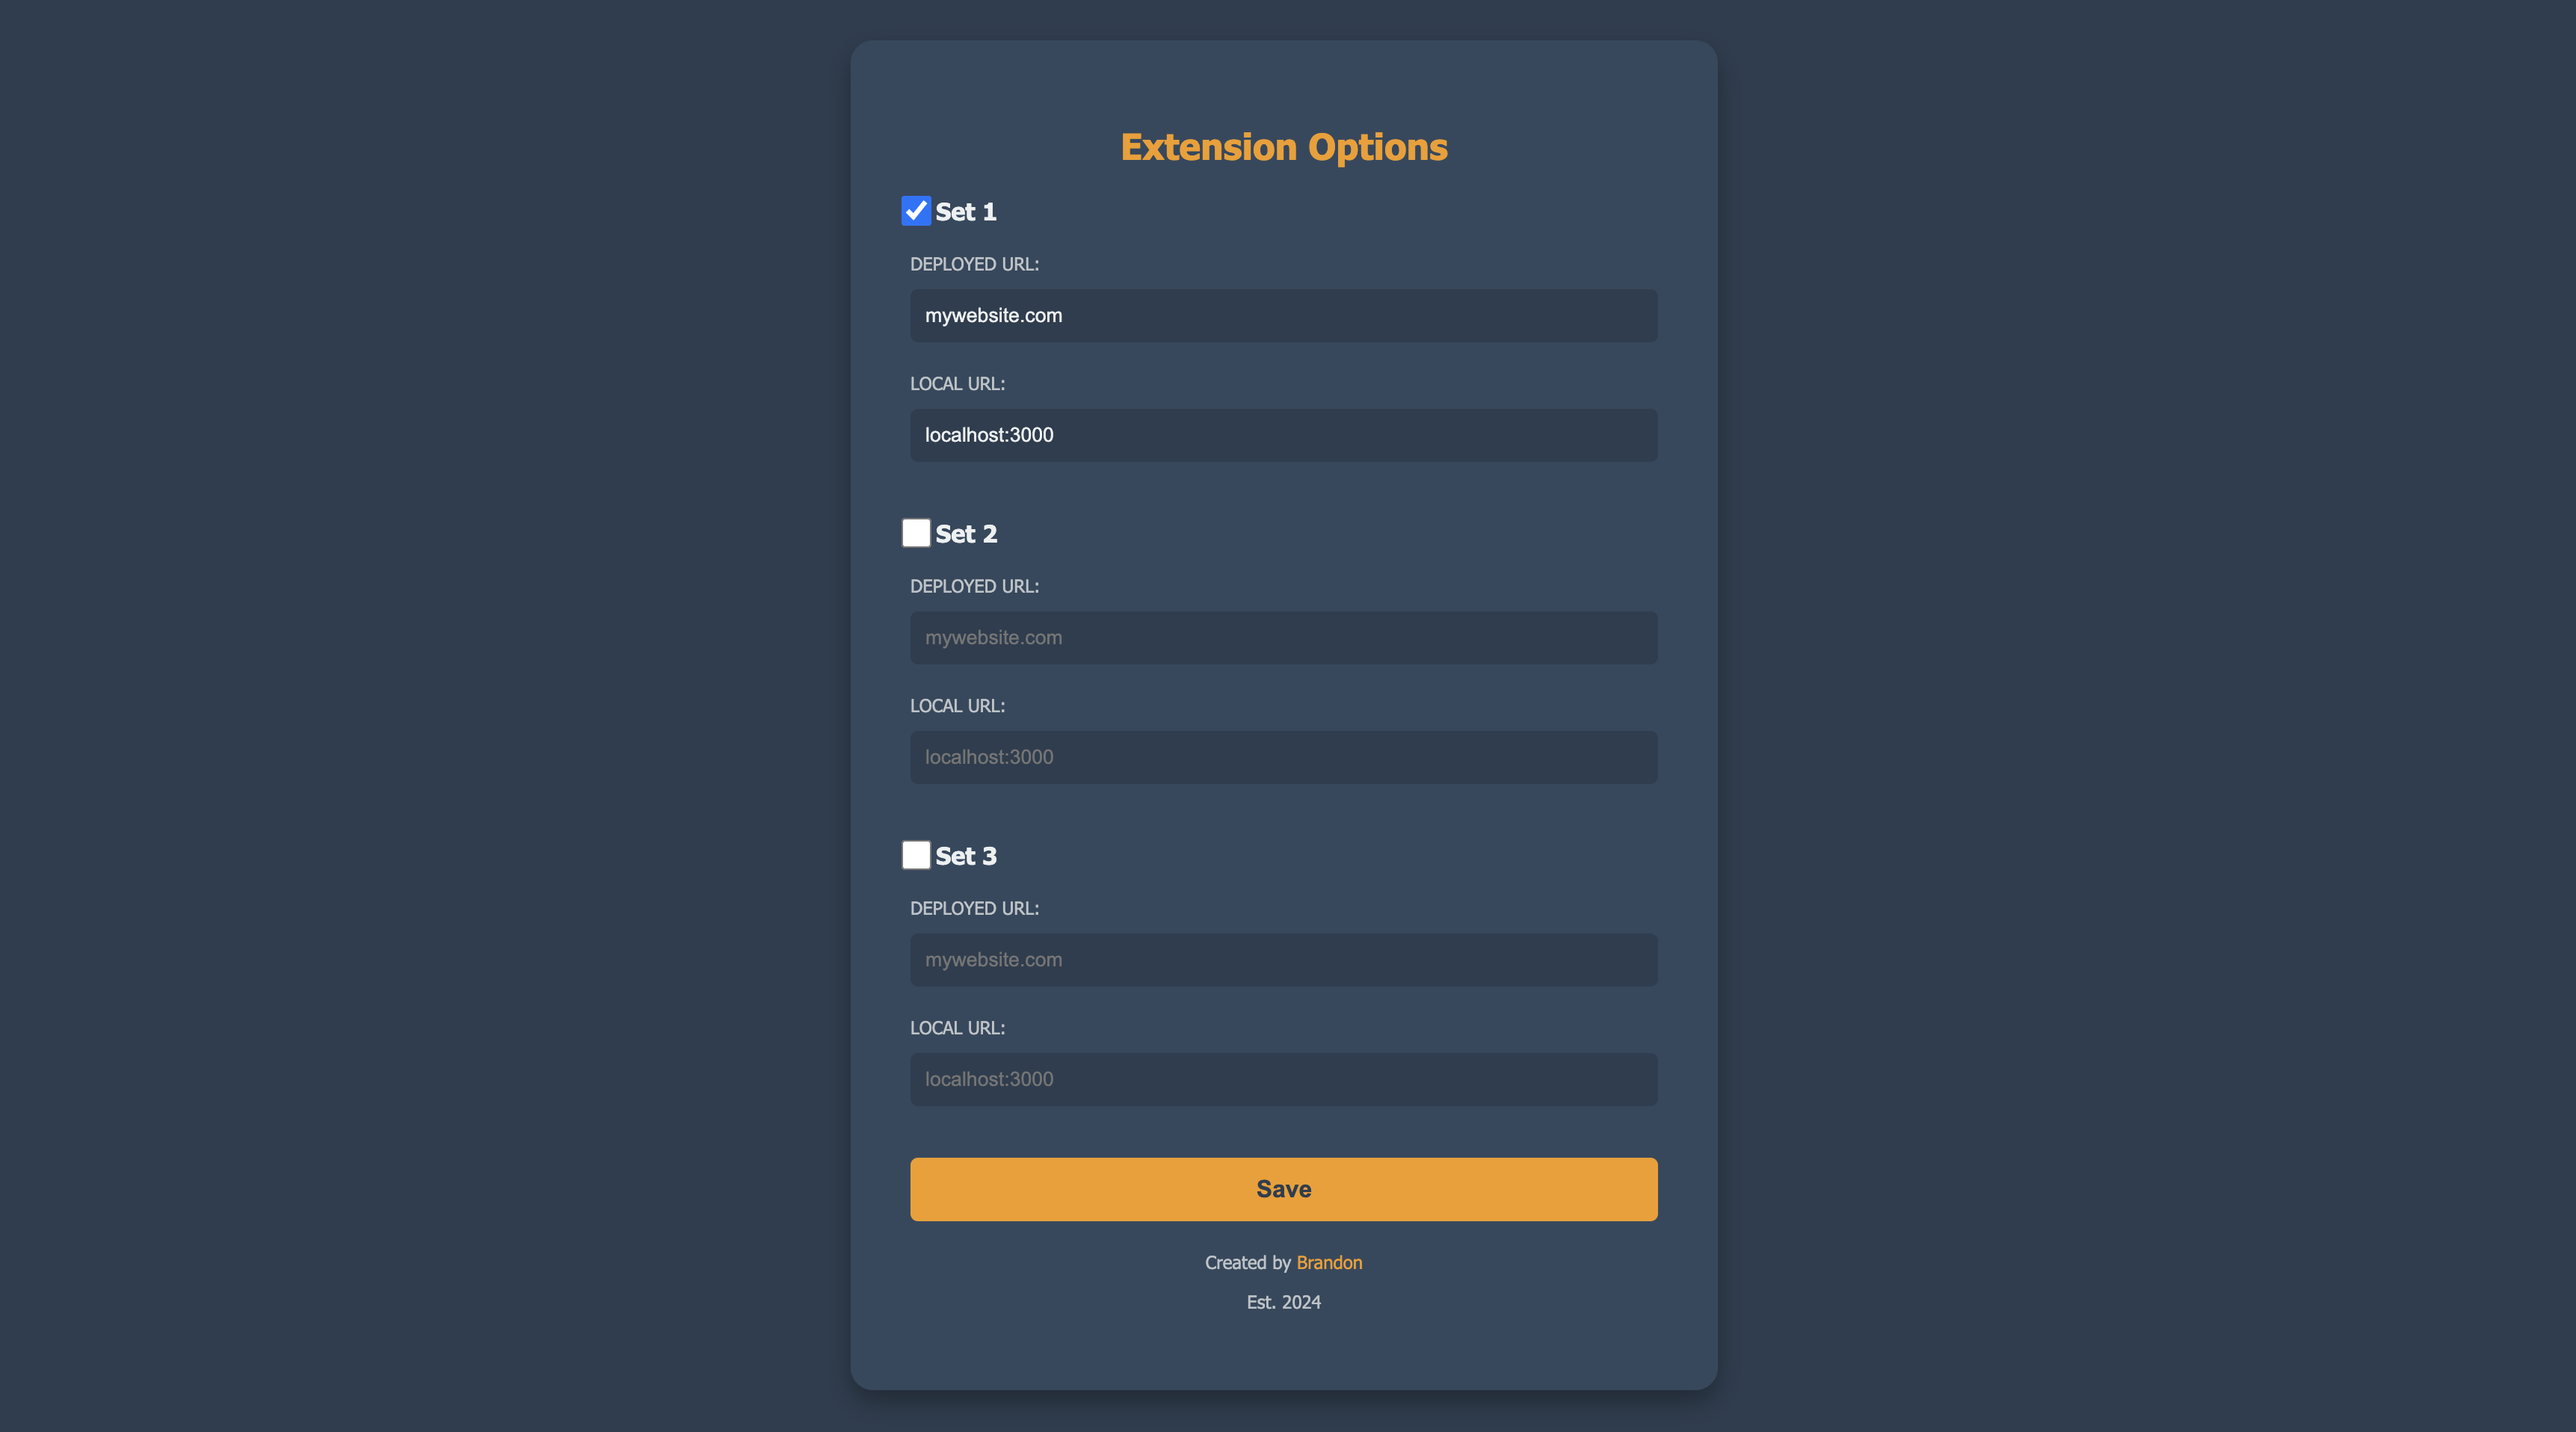
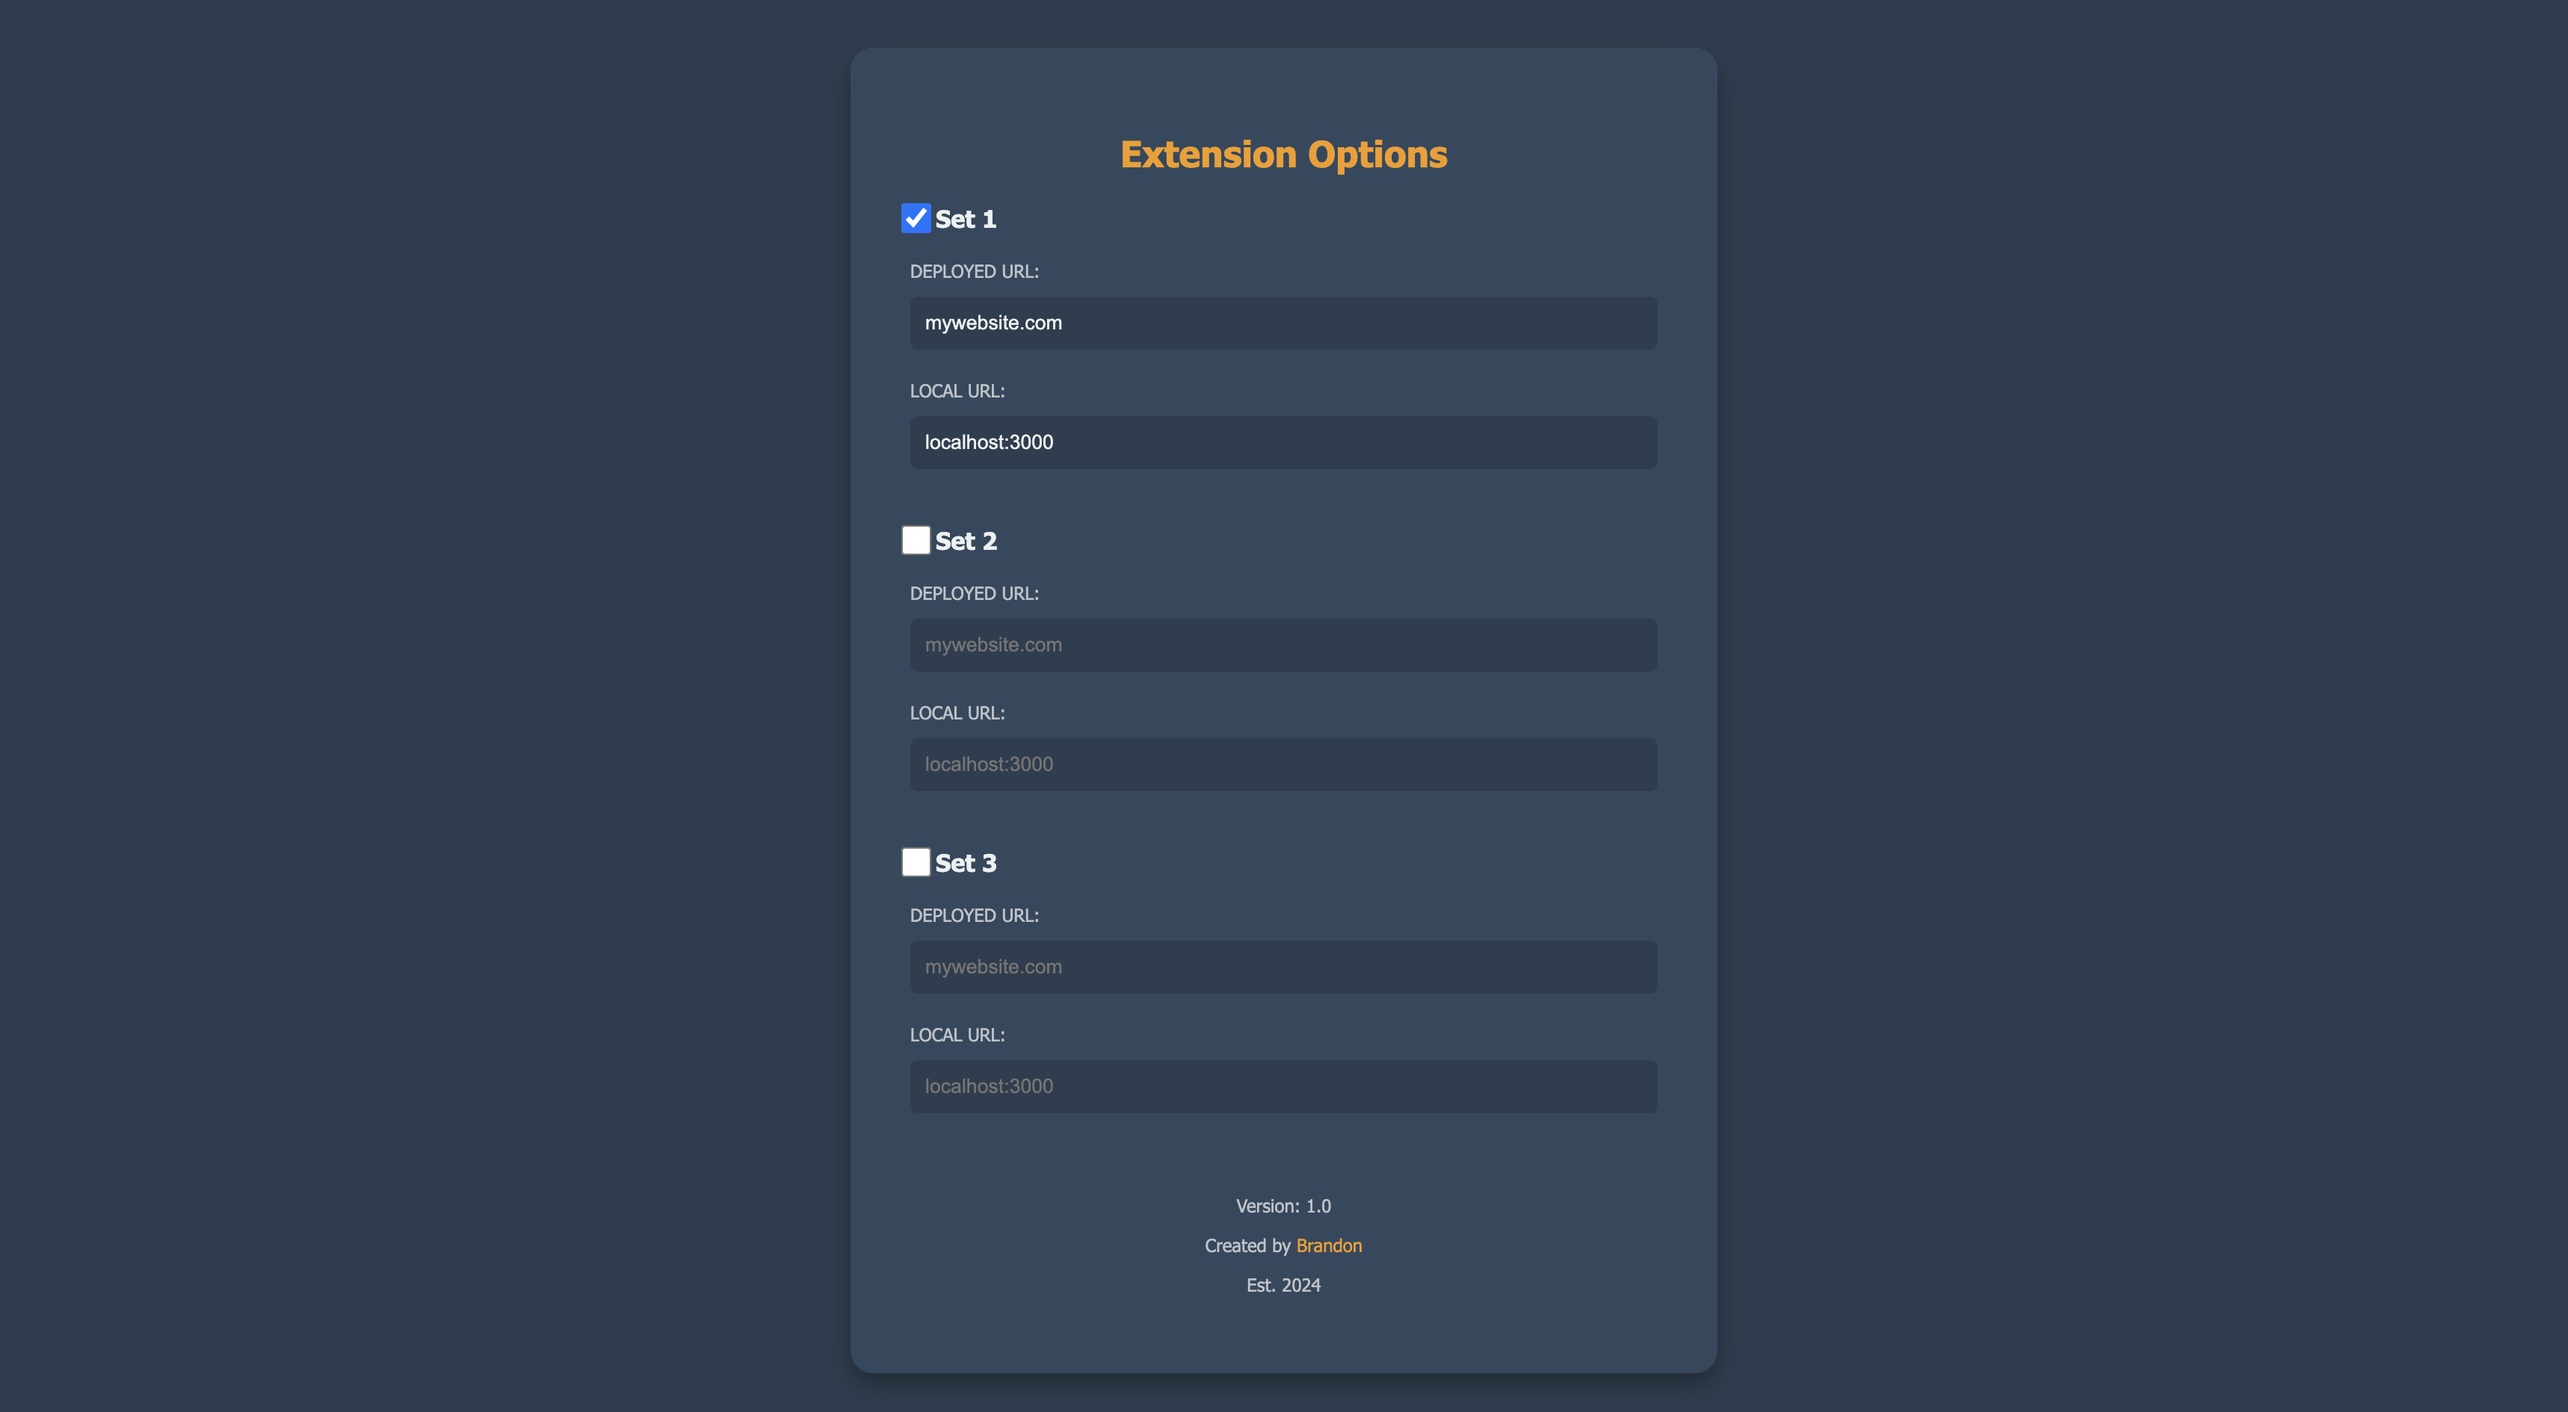
adds auto-save and adjusts error messagaing away from using alerts

diff --git a/src/scripts/convertUrl.js b/src/scripts/convertUrl.js
@@ -1,17 +1,39 @@
+const root = document.getElementById('root');
+
+function renderMessage(message) {
+    root.innerHTML = `
+        <div class="container">
+            <div class="logo"></div>
+        </div>
+        <h2>url-swip-swap</h2>
+        <p>Swaps between two URLs</p>
+        <p><b>${message}</b></p>
+        <h3>Instructions</h3>
+        <ul>
+            <li>Right-click this Extension.</li>
+            <li>Click "Options".</li>
+            <li>Set the two URLs you want to swap between.</li>
+        </ul>
+    `;
+}
+
 chrome.tabs.query({ active: true, currentWindow: true }, function (tabs) {
     const currentTab = tabs[0].url;
     chrome.storage.sync.get(['optionSets'], function ({ optionSets }) {
         const checkedSets = optionSets?.filter(({ checked }) => checked);
 
         if (!checkedSets || checkedSets?.length === 0) {
-            return alert('No option sets enabled.');
+            renderMessage('No option sets enabled.');
+            return;
         }
 
         const invalidSets = checkedSets.filter(
             ({ testUrl, devUrl }) => !testUrl || !devUrl
         );
+
         if (invalidSets.length > 0) {
-            return alert('Please configure all enabled option sets.');
+            renderMessage('Please configure all enabled option sets.');
+            return;
         }
 
         updateTabUrl(currentTab, checkedSets);
@@ -20,7 +42,9 @@ chrome.tabs.query({ active: true, currentWindow: true }, function (tabs) {
 
 const updateTabUrl = (currentTab, checkedSets) => {
     const swapUrl = (newUrl) => {
-        chrome.tabs.update({ url: newUrl });
+        chrome.tabs.update({ url: newUrl }).catch((error) => {
+            renderMessage(`ERROR: ${error.message}.`);
+        });
     };
 
     let invalidUrl = true;
@@ -41,6 +65,6 @@ const updateTabUrl = (currentTab, checkedSets) => {
     }
 
     if (invalidUrl) {
-        alert('ERROR: Not a convertible DK URL.');
+        renderMessage('ERROR: Not a convertible DK URL.');
     }
 };

diff --git a/src/scripts/options.js b/src/scripts/options.js
@@ -1,5 +1,14 @@
 document.addEventListener('DOMContentLoaded', function () {
-    const saveButton = document.getElementById('save');
+    const versionElement = document.getElementById('version');
+
+    // Fetch the manifest.json file
+    fetch(chrome.runtime.getURL('manifest.json'))
+        .then((response) => response.json())
+        .then((data) => {
+            const version = data.version;
+            versionElement.textContent = `Version: ${version}`;
+        })
+        .catch((error) => console.error('Error fetching manifest.json:', error));
 
     chrome.storage.sync.get(['optionSets'], function ({ optionSets }) {
         optionSets?.forEach(({ testUrl, devUrl, checked }, i) => {
@@ -13,7 +22,14 @@ document.addEventListener('DOMContentLoaded', function () {
         });
     });
 
-    saveButton.addEventListener('click', function () {
+    // Listen for changes in input fields
+    document.querySelectorAll('input').forEach((input) => {
+        input.addEventListener('input', function () {
+            saveOptions();
+        });
+    });
+
+    function saveOptions() {
         const optionSets = [];
         const inputCount = document.querySelectorAll('input[type="checkbox"]').length;
 
@@ -25,8 +41,9 @@ document.addEventListener('DOMContentLoaded', function () {
             optionSets.push({ testUrl, devUrl, checked });
         }
 
-        chrome.storage.sync.set({ optionSets }, function () {
-            alert('Settings saved.');
-        });
-    });
+        chrome.storage.sync.set({ optionSets });
+    }
+
+    // Automatically save options when the page loads
+    saveOptions();
 });

diff --git a/src/index.html b/src/index.html
@@ -5,17 +5,7 @@
     <link rel="stylesheet" type="text/css" href="styles/main.css">
 </head>
 <body>
-    <div class="container">
-        <div class="logo"></div>
-    </div>
-    <h2>url-swip-swap</h2>
-    <p>Swaps between two URLs</p>
-    <h3>Instructions</h3>
-    <ul>
-        <li>Right-click this Extension.</li>
-        <li>Click "Options".</li>
-        <li>Set the two URLs you want to swap between.</li>
-    </ul>
+    <div id="root">Loading...</div>
     <script src="scripts/convertUrl.js"></script>
 </body>
 </html>

diff --git a/src/options.html b/src/options.html
@@ -38,9 +38,8 @@
         <label for="devUrl2">LOCAL URL:</label>
         <input type="text" id="devUrl2" placeholder="localhost:3000">
         <br><br>
-
-        <button id="save">Save</button>
         <div class="footer">
+            <div id="version"></div>
             <p>Created by <a href="mailto:b.leboeuf@draftkings.com">Brandon</a></p>
             <p>Est. 2024</p>
         </div>

diff --git a/README.md b/README.md
@@ -12,19 +12,22 @@ This is a super simple Chrome extension that converts the current tab's URL from
   - Clicking the extension will convert the URL to its TEST environment equivalent if it matches the configured TEST URL.
   - Clicking the extension will convert the URL to its DEV environment equivalent if it matches the configured DEV URL.
 - While on an unsupported domain:
-  - An alert will trigger, indicating that the domain is not supported.
+  - Messaging will be shown indicating that the domain is not supported.
+- While using a mis-configured url:
+  - Messaging will be shown indicating the error thrown by chrome.
 
 ## Usage
-- Right click the extension
-- Select "Options"
-- Enter the URLs you want to swap
-- Click the checkbox to enable
+- Right click the extension.
+- Select "Options".
+- Enter the URLs you want to swap.
+- Click the checkbox to enable each set.
+- Settings are auto-saved.
 
 ## Installation
-1. Clone this repo locally
-2. Update the TEST and DEV variables
-3. Navigate to [chrome://extensions/](chrome://extensions/)
-4. Ensure that "Developer mode" is toggled on (in the upper right)
-5. Click "Load unpacked" in the upper left
-6. Select this entire url-swip-swap dir
+1. Clone this repo locally.
+2. Update the TEST and DEV variables.
+3. Navigate to [chrome://extensions/](chrome://extensions/).
+4. Ensure that "Developer mode" is toggled on (in the upper right).
+5. Click "Load unpacked" in the upper left.
+6. Select this entire url-swip-swap dir.
 7. Pin the extension and its ready to use!

diff --git a/CHANGELOG.md b/CHANGELOG.md
@@ -1,0 +1,15 @@
+# Changelog
+
+All notable changes to this project will be documented in this file.
+
+## [url-swip-swap@0.3] - 2024-04-23
+
+### Changed
+
+- Adjusted error messaging from using alerts to instead altering the html of the chrome popup
+- Removed save button in favor of auto save functionality
+
+### Added
+
+- Auto save functionality
+- Version display
